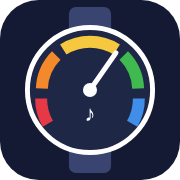
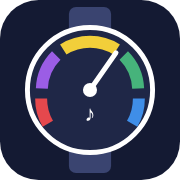
Motion Watch: Kreise fahren (Drehen) als Standard, Farben wie SoundWhacker Band
Claude-Session: https://claude.ai/code/session_01FurwkA9ZNSYg6Y4Y358v2n

Changed region(s): [[0.6667, 0.2778, 0.8056, 0.5], [0.1944, 0.2778, 0.3333, 0.5]]

diff --git a/motion-watch/index.html b/motion-watch/index.html
@@ -16,7 +16,7 @@
 <script data-goatcounter="https://pati2018.goatcounter.com/count" data-goatcounter-settings='{"path":"/motion-watch/"}' async src="//gc.zgo.at/count.js"></script>
 <style>
   :root{--bg:#141a33;--panel:#1f2747;--ink:#fff;--gold:#f6c83f;
-        --sw1:#e63946;--sw2:#f4892b;--sw3:#f6c83f;--sw4:#3fb950;--sw5:#3f8ee8;
+        --sw1:#e5484d;--sw2:#9b5de5;--sw3:#f2cf3a;--sw4:#46b37b;--sw5:#3f8ee8;   /* Farben wie SoundWhacker Band (SW2 lila) */
         --f:"Work Sans","Segoe UI",system-ui,sans-serif;--fd:"Bricolage Grotesque","Segoe UI",system-ui,sans-serif}
   *{box-sizing:border-box;-webkit-tap-highlight-color:transparent}
   [hidden]{display:none!important}
@@ -90,7 +90,7 @@
     <div class="zeile"><span>Anzahl Töne</span><select id="wAnzahl" aria-label="Anzahl Töne"></select></div>
     <div class="zeile"><span>Instrument</span><select id="wInst" aria-label="Instrument"></select></div>
     <div class="zeile"><span>Bewegung</span><select id="wModus" aria-label="Welche Bewegung spielt?">
-      <option value="kreis">⭕ Kreise schieben (flach)</option><option value="dreh">🔄 Drehen (flach)</option>
+      <option value="dreh">🔄 Kreise fahren / drehen (flach)</option><option value="kreis">⭕ Im Kreis schieben (flach)</option>
       <option value="vh">↕ Neigen vorne/hinten</option><option value="lr">↔ Neigen links/rechts</option></select></div>
     <div class="zeile" id="zEmpf"><span>Empfindlich</span><select id="wEmpf" aria-label="Wie fest muss man schieben?">
       <option value="0.4">sehr (kleine Kreise)</option><option value="0.8">mittel</option><option value="1.5">wenig (große Kreise)</option></select></div>
@@ -98,7 +98,7 @@
       <option value="1">vorne / rechts</option><option value="-1">hinten / links</option></select></div>
     <div class="zeile" id="zWeit"><span>Wie weit?</span><select id="wWeit" aria-label="Wie weit neigen?">
       <option value="30">wenig (± 30°)</option><option value="45">mittel (± 45°)</option><option value="60">stark (± 60°)</option></select></div>
-    <p class="tipp">„📱 Bewegung“ einschalten. ⭕ Kreise: iPad/Handy flach auf den Tisch legen und im Kreis schieben. 🔄 Drehen: flach liegend wie ein Lenkrad drehen. Neigen: Handy wie eine Uhr ans Handgelenk. Jeder neue Ton auf der Uhr erklingt.
+    <p class="tipp">„📱 Bewegung“ einschalten. 🔄 Kreise fahren: iPad/Handy liegt flach (z. B. auf dem Tisch am E-Rolli) und dreht sich mit – eine Runde = alle Töne. ⭕ Schieben: flach im Kreis über den Tisch schieben. Neigen: Handy wie eine Uhr ans Handgelenk. Jeder neue Ton auf der Uhr erklingt.
       Ohne Bewegung: Töne antippen, Tasten/SoundWhacker 1–9 oder Pfeiltasten ↑ ↓.</p>
     <button class="knopf" id="fertig" type="button">✓ Fertig</button>
   </div>
@@ -122,8 +122,9 @@ const KLAENGE={marimba:['Marimba',.96],klavier:['Klavier',.84],vibraphon:['Vibra
   klarinette:['Klarinette',.24],sopransax:['Sopransaxophon',.31],altsax:['Altsaxophon',.48],tenorsax:['Tenorsaxophon',.5]};
 const FARBEN=['var(--sw1)','var(--sw2)','var(--sw3)','var(--sw4)','var(--sw5)'];
 const SPEICHER='motion-watch';
-let st={grund:9, skala:'mollpenta', anzahl:10, inst:'marimba', modus:'kreis', empf:0.8, richt:1, weit:45};   // A-Moll-Pentatonik
+let st={grund:9, skala:'mollpenta', anzahl:10, inst:'marimba', modus:'dreh', empf:0.8, richt:1, weit:45};   // A-Moll-Pentatonik
 try{Object.assign(st,JSON.parse(localStorage.getItem(SPEICHER)||'{}'))}catch(e){}
+if(!(st.v>=3)){ st.modus='dreh'; st.v=3; }   // neuer Standard: Kreise fahren = drehen (z. B. E-Rolli)
 const sichern=()=>{try{localStorage.setItem(SPEICHER,JSON.stringify(st))}catch(e){}};
 
 /* ---------- Töne der Skala ---------- */
@@ -309,7 +310,7 @@ async function bewegungEin(){
     catch(e){ zeige('Bewegung konnte nicht eingeschaltet werden.',3500); return; }
   }
   bewAn=true; mitte=null; aktiv=-1; bewZeigen(); wachHalten(true);
-  zeige({kreis:'Handy/iPad flach hinlegen und im Kreis schieben!',dreh:'Flach hinlegen und drehen wie ein Lenkrad!'}[st.modus]||'Hand ruhig halten – das ist jetzt die Mitte. Dann neigen!',3000);
+  zeige({kreis:'Handy/iPad flach hinlegen und im Kreis schieben!',dreh:'Flach hinlegen und Kreise fahren oder drehen!'}[st.modus]||'Hand ruhig halten – das ist jetzt die Mitte. Dann neigen!',3000);
   setTimeout(()=>{ if(bewAn && !bekommen){ bewAn=false; bewZeigen(); wachHalten(false); zeige('Kein Bewegungssensor gefunden (geht am iPhone/iPad).',4000); } },1500);
 }
 bewKnopf.addEventListener('click',()=>{ if(bewAn){ bewAn=false; bewZeigen(); wachHalten(false); } else bewegungEin(); });

diff --git a/anleitungen/motion-watch.md b/anleitungen/motion-watch.md
@@ -1,8 +1,8 @@
 ## Worum geht es?
 
-Die **Motion Watch** macht dein Smartphone zu einem Instrument, das du am Handgelenk trägst. Du legst das iPad oder Handy **flach auf den Tisch und fährst Kreise** – oder drehst es, oder trägst es **wie eine Uhr** am Handgelenk und neigst die Hand. Jede Bewegung spielt Töne. Die Töne kommen aus einer **Skala**, z. B. der Moll-Pentatonik. So klingt es immer passend.
+Die **Motion Watch** macht dein Smartphone zu einem Instrument, das du am Handgelenk trägst. Du legst das iPad oder Handy **flach hin und fährst Kreise** – z. B. mit dem E-Rolli – oder drehst es, oder trägst es **wie eine Uhr** am Handgelenk und neigst die Hand. Jede Bewegung spielt Töne. Die Töne kommen aus einer **Skala**, z. B. der Moll-Pentatonik. So klingt es immer passend.
 
-Auf dem Bildschirm siehst du eine **Uhr**: Rundherum stehen die Töne in bunten Feldern, der **Zeiger** folgt deiner Bewegung, in der Mitte steht groß der Ton, der gerade klingt.
+Auf dem Bildschirm siehst du eine **Uhr**: Rundherum stehen die Töne in bunten Feldern (Farben wie in der SoundWhacker Band: rot, lila, gelb, grün, blau), der **Zeiger** folgt deiner Bewegung, in der Mitte steht groß der Ton, der gerade klingt.
 
 ## So geht's
 
@@ -11,8 +11,8 @@ Auf dem Bildschirm siehst du eine **Uhr**: Rundherum stehen die Töne in bunten 
 
 | Bewegung | So spielst du |
 |---|---|
-| **⭕ Kreise schieben** (Standard) | iPad oder Handy **flach auf den Tisch** legen und **im Kreis schieben**. Jede Runde spielt die Töne der Skala nacheinander – im Uhrzeigersinn aufwärts. Schnelle Kreise = schnelle Töne. Liegt das Gerät still, ist es still. |
-| **🔄 Drehen** | Gerät **flach hinlegen** und **drehen** wie ein Lenkrad oder eine Drehscheibe. Eine ganze Umdrehung = alle Töne einmal. |
+| **🔄 Kreise fahren / drehen** (Standard) | iPad oder Handy liegt **flach**, z. B. auf dem **Tisch am E-Rolli**. Fährt der E-Rolli Kreise, dreht sich das Gerät mit – **eine Runde = alle Töne** der Skala, im Uhrzeigersinn aufwärts. Geht auch, wenn du das Gerät auf dem Tisch drehst wie ein Lenkrad. |
+| **⭕ Im Kreis schieben** | Gerät flach auf dem Tisch **im Kreis schieben**, ohne es zu drehen. Schnelle Kreise = schnelle Töne. |
 | **↕ Neigen vorne/hinten** | Handy **wie eine Uhr ans Handgelenk** (lange Seite zu den Fingern). Hand ruhig halten (= Mitte), dann nach vorne neigen = höher, nach hinten = tiefer. |
 | **↔ Neigen links/rechts** | wie oben, nur seitlich neigen. |
 
@@ -29,8 +29,8 @@ Auf dem Bildschirm siehst du eine **Uhr**: Rundherum stehen die Töne in bunten 
 | **Skala** | Dur-Pentatonik, **Moll-Pentatonik** (Standard), Blues-Skala (Moll), Blues-Skala (Dur), Dur-Tonleiter, Moll-Tonleiter |
 | **Anzahl Töne** | 5 bis 15 – wenige Töne = große Felder, leicht zu treffen |
 | **Instrument** | Marimba, Klavier, Vibraphon, Kalimba, Gitarre, Flöten, Saxophone und mehr |
-| **Bewegung** | ⭕ Kreise schieben, 🔄 Drehen, ↕ Neigen vorne/hinten, ↔ Neigen links/rechts |
-| **Empfindlich** (nur Kreise) | sehr (kleine Kreise reichen), mittel, wenig (nur große, kräftige Kreise) |
+| **Bewegung** | 🔄 Kreise fahren / drehen, ⭕ Im Kreis schieben, ↕ Neigen vorne/hinten, ↔ Neigen links/rechts |
+| **Empfindlich** (nur Schieben) | sehr (kleine Kreise reichen), mittel, wenig (nur große, kräftige Kreise) |
 | **Hohe Töne** | im / gegen den Uhrzeigersinn – beim Neigen: vorne/rechts oder hinten/links |
 | **Wie weit?** (nur Neigen) | wenig (± 30°), mittel (± 45°), stark (± 60°) |
 

diff --git a/CLAUDE.md b/CLAUDE.md
@@ -114,9 +114,10 @@ Braucht ein Chat ein Repo, das nicht in der Sitzung ist, holt er es sich dazu
     Die Kacheln auf der Erklärseite `ki-betriebssystem/` stehen in derselben Reihenfolge.
     - `motion-watch/` – **Motion Watch** (26.11.2026, Idee aus dem Workshop wie Trommelball): Handy wie eine Uhr ans Handgelenk (lange Seite zu den Fingern).
       Uhr-Ansicht: Bogen mit den Tönen der Skala (SW-Farben reihum), Zeiger folgt der Neigung, großer Tonname in der Mitte, Uhrzeit unten.
-      **Bewegung `st.modus`** (Wunsch Nutzer: Gyro, iPad flach auf dem Tisch, Kreise fahren): **⭕ `kreis`** (Standard) = flach im Kreis schieben – `devicemotion`, Richtung der
-      geglätteten Beschleunigung (zeigt zur Kreismitte) +180° = Platz auf dem Kreis, Schwelle `st.empf` 0,4/0,8/1,5 m/s²; **🔄 `dreh`** = flach drehen, `alpha` (Gyro) relativ zur Mitte, 1 Umdrehung = alle Töne.
-      Bei beiden liegen die Töne rundum (360°, Ton 1 oben, im Uhrzeigersinn aufwärts), Zeiger nur am Rand. Sicherung vor diesem Umbau: Branch `stabil/motion-watch-v1.0`.
+      **Bewegung `st.modus`** (Wunsch Nutzer: Gyro; „Kreise fahren“ = Gerät liegt flach, z. B. auf dem Tisch am **E-Rolli**, und dreht sich mit, wenn der E-Rolli Kreise fährt):
+      **🔄 `dreh`** (Standard, alte Speicherstände werden per `st.v=3` umgestellt) = `alpha` (Gyro) relativ zur Mitte, 1 Umdrehung = alle Töne; **⭕ `kreis`** = flach im Kreis schieben ohne Drehen –
+      `devicemotion`, Richtung der geglätteten Beschleunigung +180°, Schwelle `st.empf` 0,4/0,8/1,5 m/s². Bei beiden Töne rundum (360°, Ton 1 oben, im Uhrzeigersinn aufwärts), Zeiger nur am Rand.
+      **Farben wie in der SoundWhacker Band** (rot #e5484d, lila #9b5de5, gelb #f2cf3a, grün #46b37b, blau #3f8ee8 – Wunsch Nutzer). Sicherung vor diesem Umbau: Branch `stabil/motion-watch-v1.0`.
       **Neigen** (`vh` vorne ↔ hinten = Richtung Feld 2/4 wie im Trommelball, `beta`; `lr` links ↔ rechts = `gamma`; Bogen statt Kreis): Winkelbereich ± `st.weit` (30/45/60°) wird in `st.anzahl` Felder geteilt,
       neues Feld = Ton (kleine Schwelle gegen Flattern); vorne = hohe Töne (`st.richt` umkehrbar). Mitte = Haltung beim Einschalten, „⊕ Mitte“. Gerätachsen, nicht Bildschirmachsen (Bildschirm darf sich drehen).
       Skalen `SKALEN`: Dur-/Moll-Pentatonik, Blues (Moll), Blues (Dur), Dur, Moll; Grundton C–H, 5–15 Töne, Instrumente aus `../tischharfe/klaenge/` (Samples 54–81 je 3 Halbtöne).
